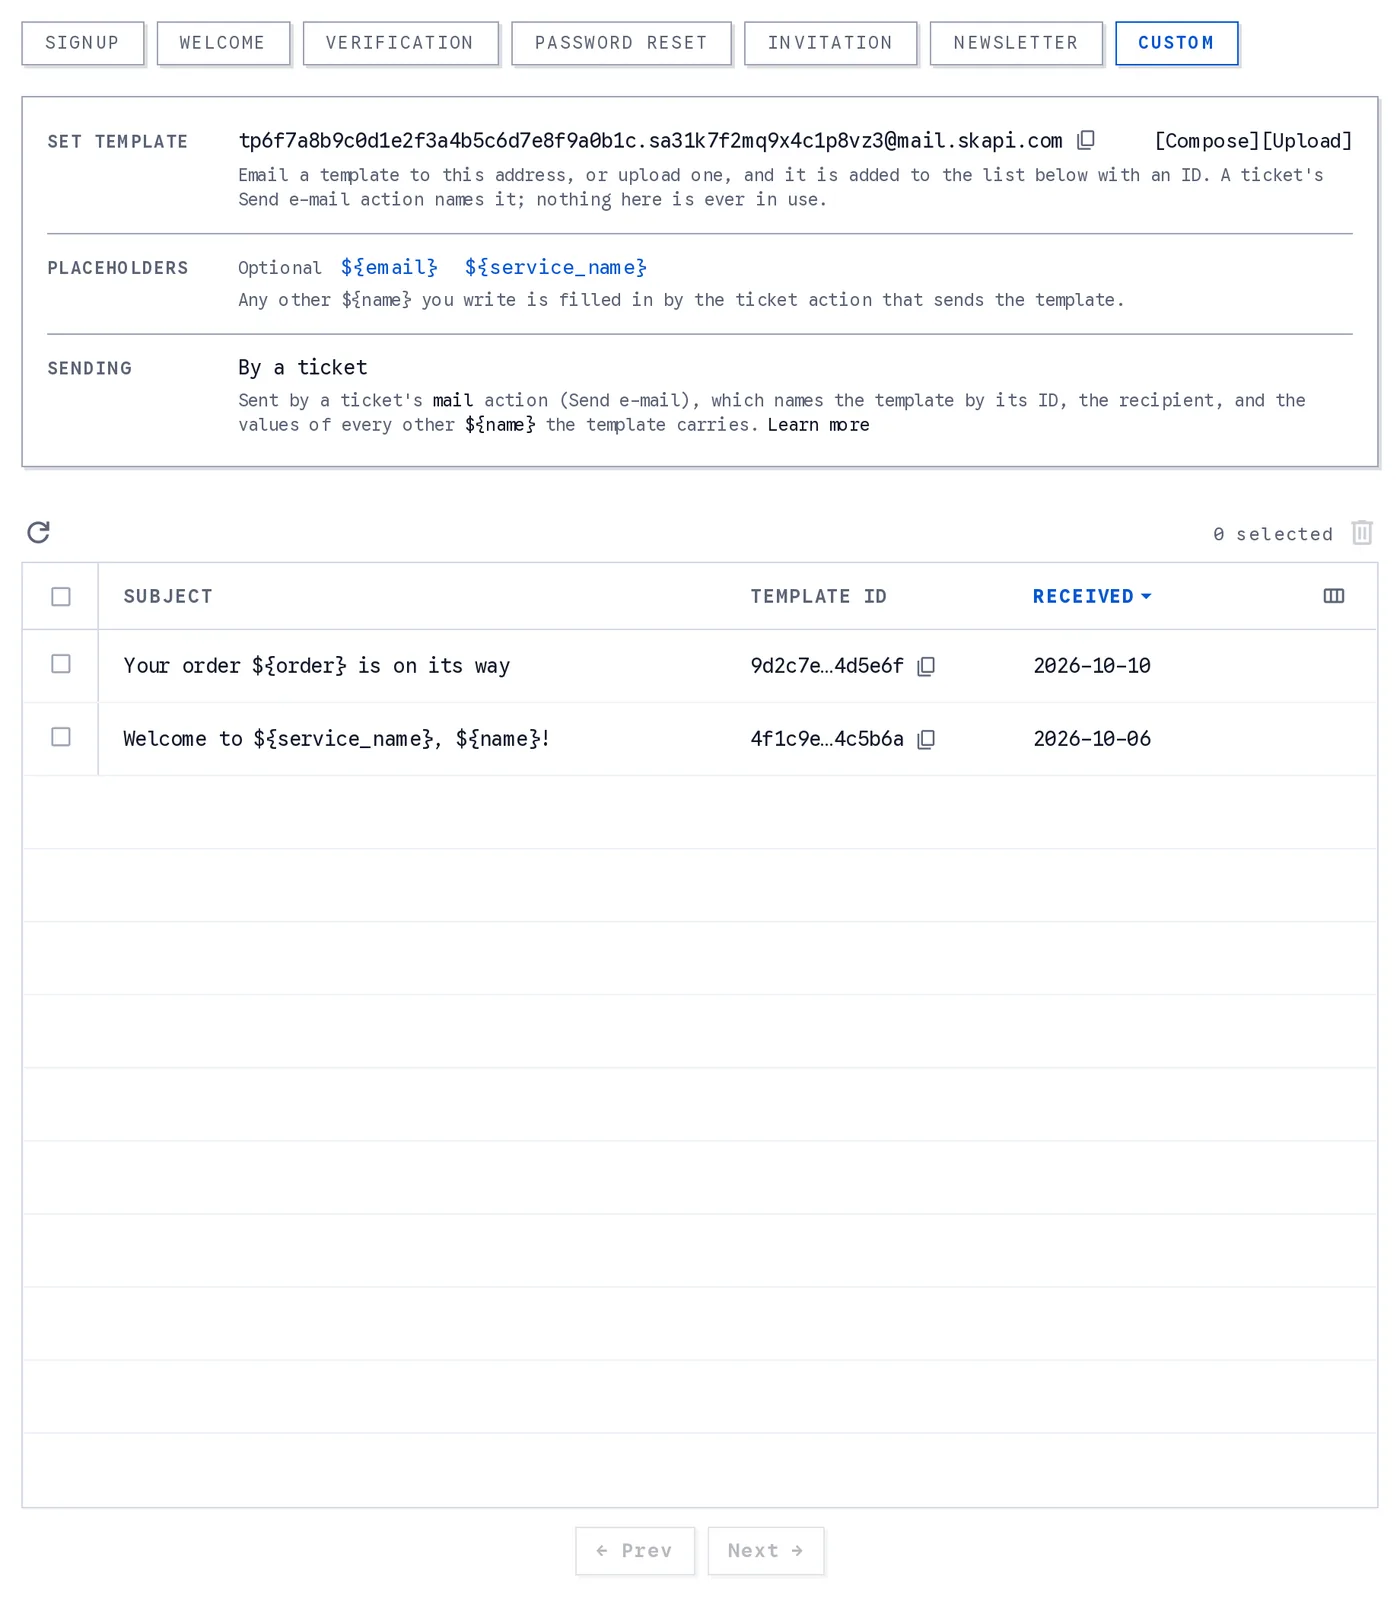
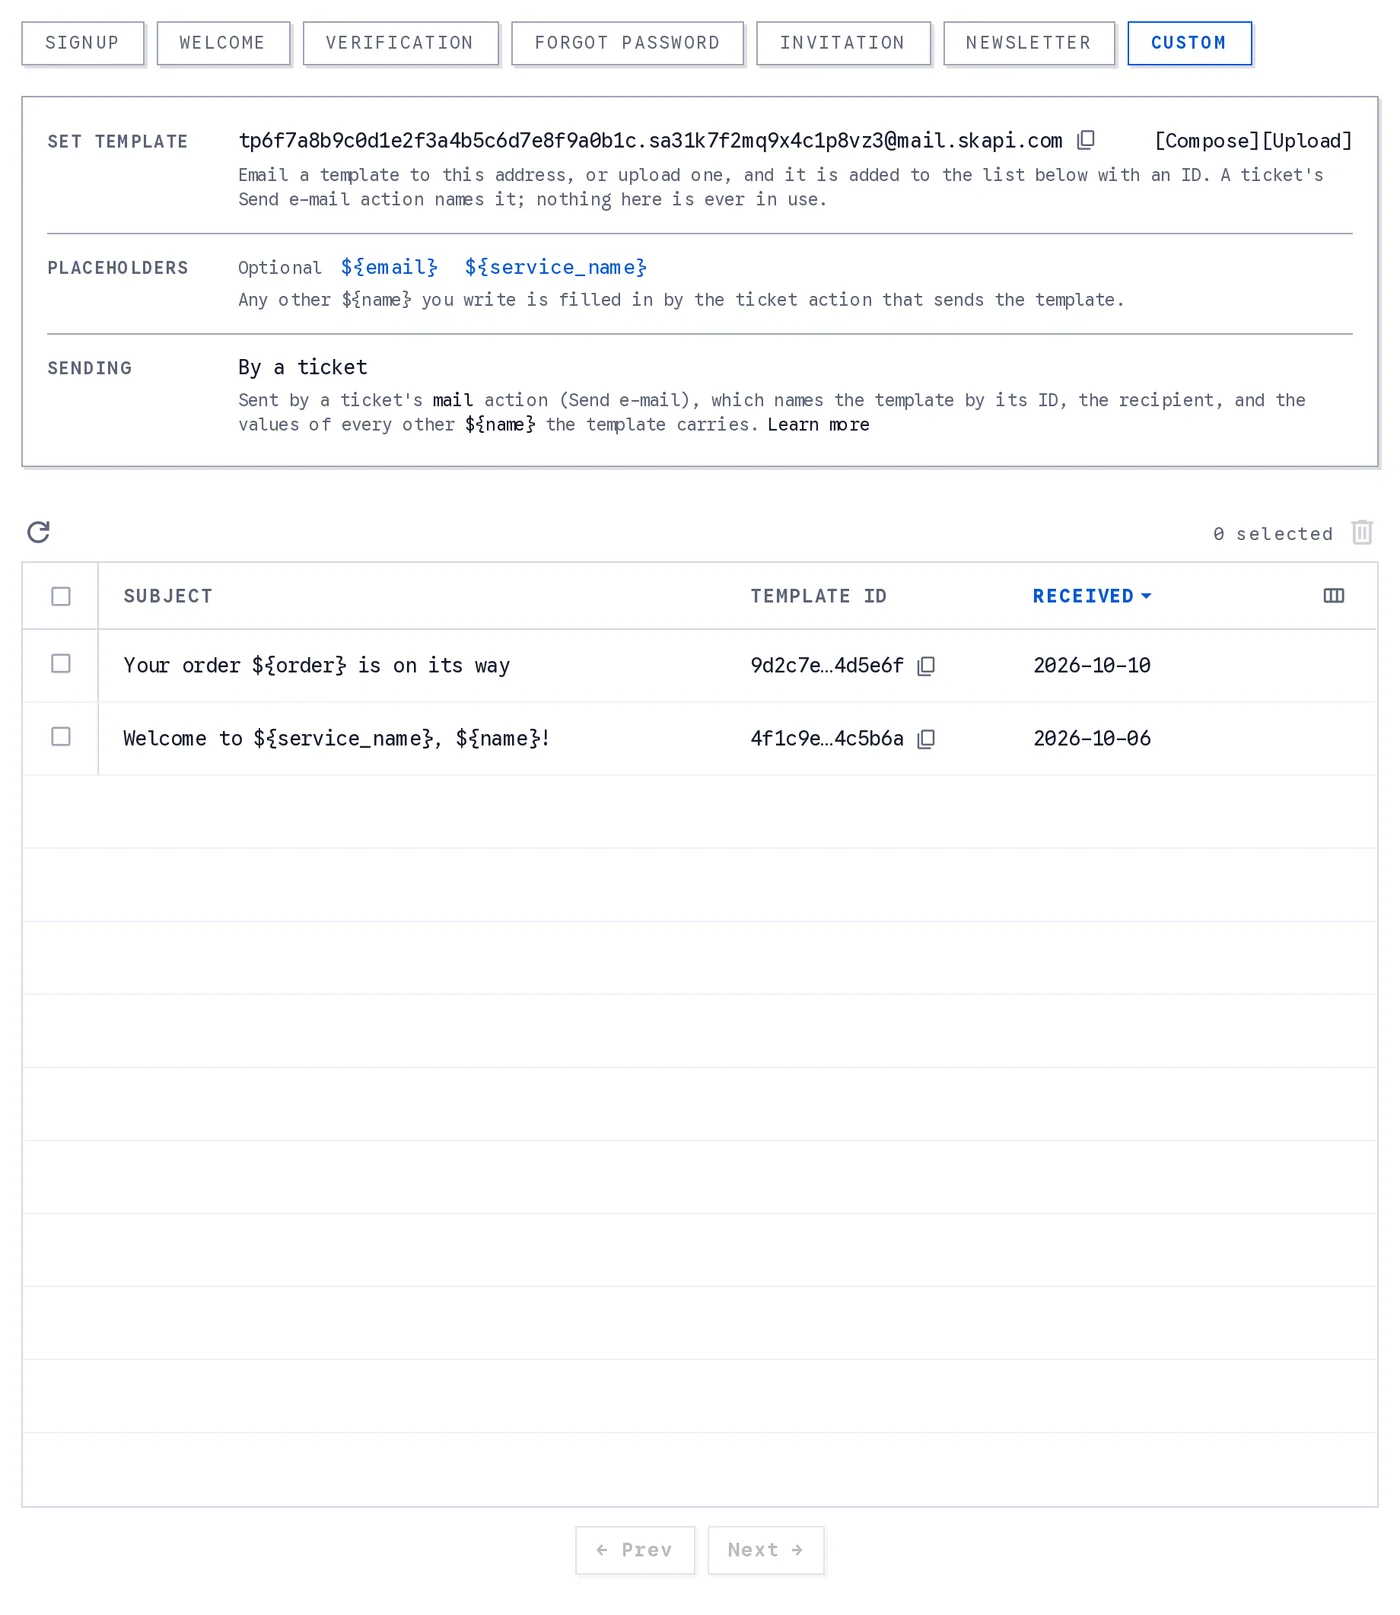
forgot password

diff --git a/email/email-templates.md b/email/email-templates.md
@@ -37,7 +37,7 @@ In the `Automated Emails` page, select an email type you want to set the templat
   
   Sent with a one-time code by [`verifyEmail()`](/api-reference/user/README.md#verifyemail) for an unverified email address. A phone number is verified by a text message instead, whose wording is the project's [SMS text](#the-sms-text-for-phone-verification).
 
-- **Forgot Password E-Mail** (the **Password reset** tab)
+- **Forgot Password E-Mail** (the **Forgot password** tab)
   
   Sent with the password reset code by [`forgotPassword()`](/api-reference/authentication/README.md#forgotpassword). The reset code always comes by email, never by text message, so this is the only template a password reset uses.
 
@@ -54,7 +54,7 @@ In the `Automated Emails` page, select an email type you want to set the templat
   
   Sent by a ticket's [Send e-mail action](/tickets/actions.md#mail-send-an-e-mail) to the address the ticket names, with the values the ticket fills in. See [Custom e-mails](#custom-e-mails).
 
-The tabs on the page are named **Signup**, **Welcome**, **Verification**, **Password reset**, **Invitation**, **Newsletter** and **Custom**; on a narrow screen they are a select. Once you select one, the page shows:
+The tabs on the page are named **Signup**, **Welcome**, **Verification**, **Forgot password**, **Invitation**, **Newsletter** and **Custom**; on a narrow screen they are a select. Once you select one, the page shows:
 
 - **Set Template**: the template setter, the email endpoint that takes templates for the selected type. Click the address to copy it, or click **[Compose]** to open a new message to it in your mail app. Every type has its own address.
 - **Placeholders**: the placeholders the selected type fills in, split into **Required** and **Optional**.
@@ -66,11 +66,11 @@ Below them is the list of the templates you have sent for that type: the subject
 
 *The Automated Emails page. The Set Template address takes templates for the selected tab.*
 
-The **Password reset** tab is where the e-mail that carries the password reset code is set. Its one required placeholder is `${code}`; until you set a template of your own, the current template is the built-in default, and the row under it says when the mail goes out: by [`forgotPassword()`](/api-reference/authentication/README.md#forgotpassword), always by e-mail, to the account's login e-mail.
+The **Forgot password** tab is where the e-mail that carries the password reset code is set. Its one required placeholder is `${code}`; until you set a template of your own, the current template is the built-in default, and the row under it says when the mail goes out: by [`forgotPassword()`](/api-reference/authentication/README.md#forgotpassword), always by e-mail, to the account's login e-mail.
 
-![The Automated Emails page on the Password reset tab: the Set Template address with Compose and Upload links, ${code} as the required placeholder with ${email}, ${name} and ${service_name} optional, and Built-in default as the current template, sent with a one-time code by forgotPassword()](/screenshots/mail-password-reset.webp)
+![The Automated Emails page on the Forgot password tab: the Set Template address with Compose and Upload links, ${code} as the required placeholder with ${email}, ${name} and ${service_name} optional, and Built-in default as the current template, sent with a one-time code by forgotPassword()](/screenshots/mail-forgot-password.webp)
 
-*The Password reset tab. The code placeholder is required; the built-in default is used until you set a template.*
+*The Forgot password tab. The code placeholder is required; the built-in default is used until you set a template.*
 
 ### Placeholder information
 
@@ -249,7 +249,7 @@ skapi.verifyEmail(undefined, {
 ```
 
 Overriding the forgot password e-mail, which carries the password reset code. The id is that of a
-template sent to the **Password reset** tab's Set Template address, not a verification one:
+template sent to the **Forgot password** tab's Set Template address, not a verification one:
 
 ```js
 skapi.forgotPassword(
@@ -352,9 +352,9 @@ Your verification code is: ${code}
 ```
 
 
-## Required Placeholders for password reset email
+## Required Placeholders for forgot password email
 
-When sending the password reset email, you must include the **`${code}`** placeholder in your email content.
+When sending the forgot password email, you must include the **`${code}`** placeholder in your email content.
 The **`${code}`** placeholder will be replaced with the code the user enters to set a new password. Without a template of this type, the built-in default is sent (see [Built-in defaults](#built-in-defaults)).
 
 Example:

diff --git a/authentication/forgot-password.md b/authentication/forgot-password.md
@@ -49,7 +49,7 @@ please refer to the API Reference below:
 Due to security reasons, [`forgotPassword()`](/api-reference/authentication/README.md#forgotpassword) will not tell the user whether the email exists.
 :::
 
-The code comes in the **Forgot Password E-Mail**, a template of its own, separate from the verification email. You can customize it on the **Password reset** tab of the `Automated Emails` page; until you do, Skapi sends its built-in default, the subject `[${service_name}] Password reset code` with the body `Your password reset code is ${code}`.
+The code comes in the **Forgot Password E-Mail**, a template of its own, separate from the verification email. You can customize it on the **Forgot password** tab of the `Automated Emails` page; until you do, Skapi sends its built-in default, the subject `[${service_name}] Password reset code` with the body `Your password reset code is ${code}`.
 
 For more info on email templates, see [E-Mail Templates](/email/email-templates.md).
 
